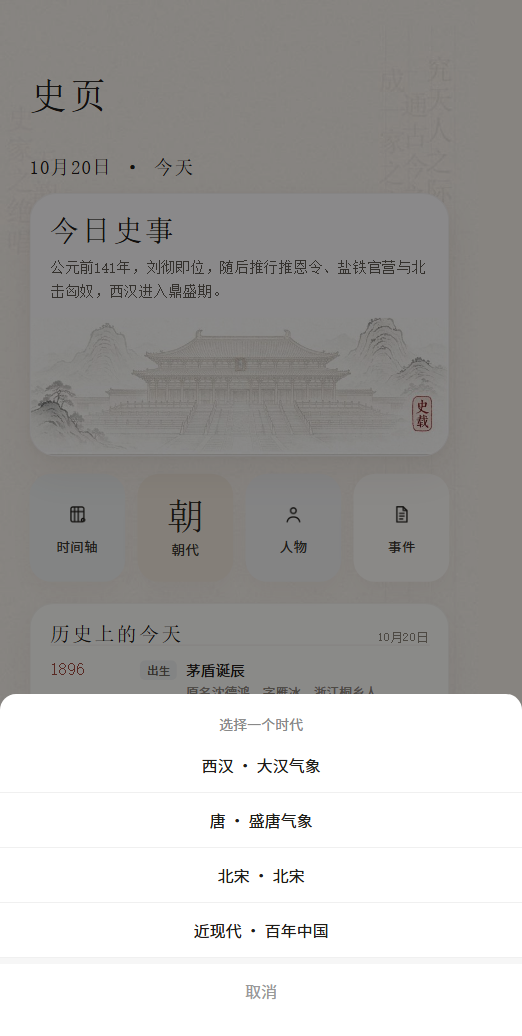
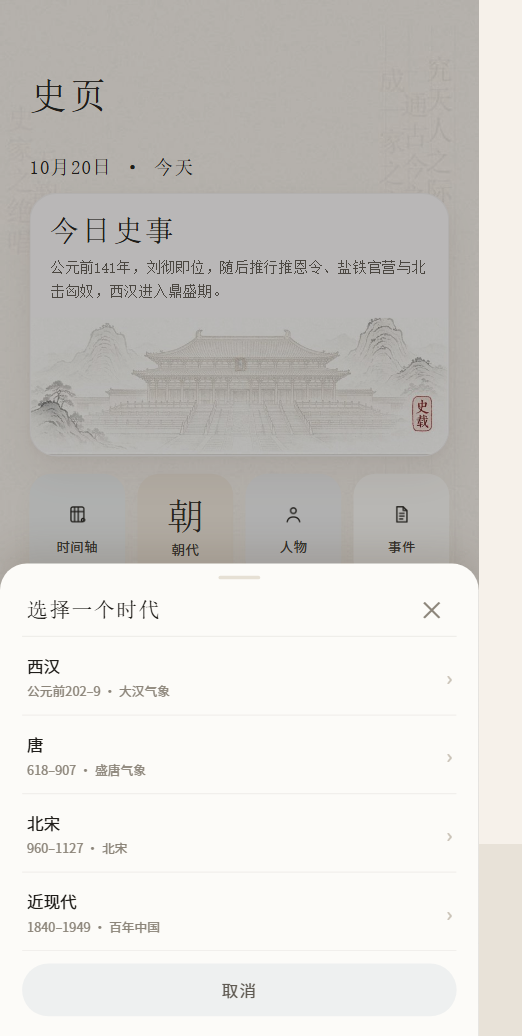
feat: 首页磁贴改自绘底部弹层(宣纸卡+动画+安全区), 移除时代带右侧竖条; selftest setData点路径保真(576全过)

diff --git a/ui/preview/_bundle.js b/ui/preview/_bundle.js
@@ -1373,7 +1373,8 @@ Page('project://pages/home/home.js', {
     modern: {},
     tih: [],
     tihTotal: 0,
-    tihDate: ''
+    tihDate: '',
+    sheet: { open: false, title: '', list: [] }
   },
 
   onShow() {
@@ -1445,50 +1446,52 @@ Page('project://pages/home/home.js', {
     }
 
     if (page === 'dynasty') {
-      this.showList(
+      this.openSheet(
         '选择一个时代',
-        history.periods.map((item) => `${item.name} · ${item.title}`),
-        (index) => {
-          const period = history.periods[index];
-          wx.navigateTo({ url: `/pages/period/period?id=${period.id}` });
-        }
+        history.periods.map((item) => ({ id: item.id, kind: 'period', title: item.name, sub: `${item.start < 0 ? '公元前' + (-item.start) : item.start}–${item.end} · ${item.title}` }))
       );
       return;
     }
 
     if (page === 'person') {
-      this.showList(
+      this.openSheet(
         '选择一位人物',
-        history.persons.map((item) => `${item.name} · ${item.roles}`),
-        (index) => {
-          const person = history.persons[index];
-          wx.navigateTo({ url: `/pages/person/person?id=${person.id}` });
-        }
+        history.persons.map((item) => ({ id: item.id, kind: 'person', title: item.name, sub: `${item.era} · ${item.roles}` }))
       );
       return;
     }
 
     if (page === 'event') {
       const items = history.events.slice(-6).reverse();
-      this.showList(
+      this.openSheet(
         '选择一件史事',
-        items.map((item) => `${item.yearText} · ${item.title}`),
-        (index) => {
-          const event = items[index];
-          wx.navigateTo({ url: `/pages/event/event?id=${event.id}` });
-        }
+        items.map((item) => ({ id: item.id, kind: 'event', title: item.title, sub: `${item.yearText} · ${item.era}` }))
       );
     }
   },
 
-  showList(title, itemList, onSelect) {
-    wx.showActionSheet({
-      alertText: title,
-      itemList,
-      success: (res) => {
-        onSelect(res.tapIndex);
-      }
-    });
+  openSheet(title, list) {
+    this.setData({ sheet: { open: true, title, list } });
+  },
+
+  closeSheet() {
+    this.setData({ 'sheet.open': false });
+  },
+
+  // 阻挡面板内点击冒泡到遮罩
+  noop() {},
+
+  onSheetItem(e) {
+    const item = this.data.sheet.list[e.currentTarget.dataset.index];
+    if (!item) return;
+    const url =
+      item.kind === 'person'
+        ? `/pages/person/person?id=${item.id}`
+        : item.kind === 'event'
+          ? `/pages/event/event?id=${item.id}`
+          : `/pages/period/period?id=${item.id}`;
+    this.setData({ 'sheet.open': false });
+    wx.navigateTo({ url });
   },
 
   showDetail(item) {
@@ -1542,8 +1545,8 @@ Page('project://pages/home/home.js', {
 });
 
 });
-__register('/pages/home/home.wxml', function (require, module, exports) { module.exports = "<view class=\"page\">\r\n  <image class=\"paper-bg\" src=\"/assets/paper-bg.jpg\" mode=\"aspectFill\"></image>\r\n  <view class=\"screen\">\r\n    <view class=\"topbar\">\r\n      <text class=\"brand\">史页</text>\r\n    </view>\r\n\r\n    <view class=\"date\">{{dateText}}</view>\r\n\r\n    <view class=\"hero\" bindtap=\"onHeroTap\">\r\n      <view class=\"hero-inner\">\r\n        <text class=\"hero-title\">{{hero.title}}</text>\r\n        <text class=\"hero-desc\">{{hero.desc}}</text>\r\n      </view>\r\n      <image class=\"hero-art\" src=\"/assets/palace.jpg\" mode=\"widthFix\"></image>\r\n    </view>\r\n\r\n    <view class=\"quick\">\r\n      <view class=\"quick-item t1\" data-page=\"timeline\" bindtap=\"goPage\">\r\n        <image class=\"quick-icon\" src=\"/assets/icons/timeline-tile.png\" mode=\"aspectFit\"></image>\r\n        <text class=\"quick-label\">时间轴</text>\r\n      </view>\r\n      <view class=\"quick-item t2\" data-page=\"dynasty\" bindtap=\"goPage\">\r\n        <text class=\"quick-char\">朝</text>\r\n        <text class=\"quick-label\">朝代</text>\r\n      </view>\r\n      <view class=\"quick-item t3\" data-page=\"person\" bindtap=\"goPage\">\r\n        <image class=\"quick-icon\" src=\"/assets/icons/person.png\" mode=\"aspectFit\"></image>\r\n        <text class=\"quick-label\">人物</text>\r\n      </view>\r\n      <view class=\"quick-item t4\" data-page=\"event\" bindtap=\"goPage\">\r\n        <image class=\"quick-icon\" src=\"/assets/icons/event.png\" mode=\"aspectFit\"></image>\r\n        <text class=\"quick-label\">事件</text>\r\n      </view>\r\n    </view>\r\n\r\n    <view class=\"tih\" wx:if=\"{{tih.length}}\">\r\n      <view class=\"tih-head\">\r\n        <text class=\"tih-title\">历史上的今天</text>\r\n        <text class=\"tih-sub\">{{tihDate}}</text>\r\n      </view>\r\n      <view\r\n        class=\"tih-item\"\r\n        wx:for=\"{{tih}}\"\r\n        wx:key=\"index\"\r\n        data-index=\"{{index}}\"\r\n        bindtap=\"onTihTap\"\r\n      >\r\n        <text class=\"tih-year\">{{item.yearText}}</text>\r\n        <text class=\"tih-tag {{item.type === '出生' ? 'tag-b' : item.type === '逝世' ? 'tag-d' : 'tag-e'}}\">{{item.type}}</text>\r\n        <view class=\"tih-main\">\r\n          <text class=\"tih-name\">{{item.title}}</text>\r\n          <text class=\"tih-desc\" wx:if=\"{{item.desc}}\">{{item.desc}}</text>\r\n        </view>\r\n      </view>\r\n      <view class=\"tih-foot\" wx:if=\"{{tihTotal > tih.length}}\">共 {{tihTotal}} 条 · 点击条目看详情</view>\r\n    </view>\r\n\r\n    <view class=\"section-head\">\r\n      <text class=\"section-title\">沿着时间走</text>\r\n      <text class=\"section-link\" bindtap=\"goDiscover\">全部朝代 ›</text>\r\n    </view>\r\n\r\n    <view class=\"era-row\">\r\n      <view class=\"era-card\" bindtap=\"onEraTap\">\r\n        <image class=\"era-bg\" src=\"/assets/tang-bg.jpg\" mode=\"aspectFill\"></image>\r\n        <view class=\"era-shade\"></view>\r\n        <text class=\"era-title\">{{era.title}}</text>\r\n        <text class=\"era-desc\">{{era.desc}}</text>\r\n      </view>\r\n    </view>\r\n\r\n    <view class=\"modern-card\" bindtap=\"onModernTap\">\r\n      <view class=\"modern-copy\">\r\n        <text class=\"modern-kicker\">{{modern.kicker}}</text>\r\n        <text class=\"modern-title\">{{modern.shortTitle}}</text>\r\n        <text class=\"modern-desc\">{{modern.desc}}</text>\r\n      </view>\r\n      <view class=\"modern-years\">\r\n        <text>1840</text>\r\n        <view class=\"modern-dash\"></view>\r\n        <text>1949</text>\r\n      </view>\r\n    </view>\r\n  </view>\r\n</view>\r\n"; });
-__register('/pages/home/home.wxss', function (require, module, exports) { module.exports = ".page {\r\n  position: relative;\r\n  min-height: 100vh;\r\n  overflow: hidden;\r\n  background: #F6F1EA;\r\n}\r\n\r\n.paper-bg {\r\n  position: fixed;\r\n  left: 0;\r\n  top: 0;\r\n  z-index: 0;\r\n  width: 100%;\r\n  height: 100%;\r\n  opacity: 0.96;\r\n}\r\n\r\n.screen {\r\n  position: relative;\r\n  z-index: 2;\r\n  padding: 0 46rpx 160rpx;\r\n}\r\n\r\n.topbar {\r\n  margin-top: 88rpx;\r\n  height: 124rpx;\r\n  display: flex;\r\n  align-items: center;\r\n  justify-content: space-between;\r\n}\r\n\r\n.brand {\r\n  font-family: \"Songti SC\", \"STSong\", \"SimSun\", serif;\r\n  font-size: 58rpx;\r\n  font-weight: 400;\r\n  letter-spacing: 0.10em;\r\n  line-height: 1;\r\n  color: #1F1D19;\r\n}\r\n\r\n.date {\r\n  margin-top: 34rpx;\r\n  font-family: \"Songti SC\", \"STSong\", \"SimSun\", serif;\r\n  font-size: 30rpx;\r\n  letter-spacing: 0.04em;\r\n  color: #1F1D19;\r\n}\r\n\r\n.hero {\r\n  position: relative;\r\n  height: 412rpx;\r\n  margin-top: 24rpx;\r\n  border-radius: 42rpx;\r\n  background: #FCFAFB;\r\n  border: 1rpx solid rgba(80, 65, 48, 0.05);\r\n  box-shadow: 0 28rpx 58rpx rgba(90, 70, 50, 0.08), 0 4rpx 12rpx rgba(90, 70, 50, 0.03);\r\n  overflow: hidden;\r\n}\r\n\r\n.hero-inner {\r\n  position: relative;\r\n  z-index: 3;\r\n  padding: 30rpx 30rpx 0;\r\n}\r\n\r\n.hero-title {\r\n  display: block;\r\n  font-family: \"Songti SC\", \"STSong\", \"SimSun\", serif;\r\n  font-size: 46rpx;\r\n  font-weight: 400;\r\n  letter-spacing: 0.08em;\r\n  line-height: 1.1;\r\n  color: #1F1D19;\r\n}\r\n\r\n.hero-desc {\r\n  display: block;\r\n  max-width: 600rpx;\r\n  margin-top: 14rpx;\r\n  font-family: \"Songti SC\", \"STSong\", \"SimSun\", serif;\r\n  font-size: 24rpx;\r\n  line-height: 1.65;\r\n  color: #5F5A52;\r\n}\r\n\r\n.hero-art {\r\n  position: absolute;\r\n  left: 0;\r\n  bottom: 0;\r\n  z-index: 1;\r\n  width: 100%;\r\n  height: auto;\r\n  display: block;\r\n}\r\n\r\n.quick {\r\n  display: flex;\r\n  margin-top: 28rpx;\r\n}\r\n\r\n.quick-item {\r\n  flex: 1;\r\n  height: 168rpx;\r\n  margin-right: 20rpx;\r\n  border-radius: 34rpx;\r\n  display: flex;\r\n  flex-direction: column;\r\n  align-items: center;\r\n  justify-content: center;\r\n  box-shadow: 0 16rpx 34rpx rgba(90, 70, 50, 0.045);\r\n}\r\n\r\n.quick-item:last-child {\r\n  margin-right: 0;\r\n}\r\n\r\n.quick-item.t1 {\r\n  background: #EEF0F0;\r\n}\r\n\r\n.quick-item.t2 {\r\n  background: #F1E8DD;\r\n}\r\n\r\n.quick-item.t3 {\r\n  background: #F0F0F1;\r\n}\r\n\r\n.quick-item.t4 {\r\n  background: #FBF9F6;\r\n}\r\n\r\n.quick-icon {\r\n  width: 46rpx;\r\n  height: 46rpx;\r\n  display: block;\r\n}\r\n\r\n.quick-char {\r\n  height: 54rpx;\r\n  font-family: \"Songti SC\", \"STSong\", \"SimSun\", serif;\r\n  font-size: 58rpx;\r\n  line-height: 1;\r\n  color: #2A2722;\r\n}\r\n\r\n.quick-label {\r\n  margin-top: 12rpx;\r\n  font-size: 21rpx;\r\n  letter-spacing: 0.04em;\r\n  color: #3B3731;\r\n}\r\n\r\n/* 「历史上的今天」——60s API 实时板块 */\r\n.tih {\r\n  margin-top: 34rpx;\r\n  padding: 28rpx 30rpx 6rpx;\r\n  border-radius: 38rpx;\r\n  background: #FCFBF8;\r\n  border: 1rpx solid rgba(80, 65, 48, 0.05);\r\n  box-shadow: 0 20rpx 46rpx rgba(90, 70, 50, 0.06);\r\n}\r\n\r\n.tih-head {\r\n  display: flex;\r\n  align-items: baseline;\r\n  justify-content: space-between;\r\n}\r\n\r\n.tih-title {\r\n  font-family: \"Songti SC\", \"STSong\", \"SimSun\", serif;\r\n  font-size: 32rpx;\r\n  letter-spacing: 0.07em;\r\n  color: #1F1D19;\r\n}\r\n\r\n.tih-sub {\r\n  font-family: \"Songti SC\", \"STSong\", \"SimSun\", serif;\r\n  font-size: 19rpx;\r\n  letter-spacing: 0.04em;\r\n  color: #8C857A;\r\n}\r\n\r\n.tih-item {\r\n  display: flex;\r\n  align-items: flex-start;\r\n  gap: 14rpx;\r\n  padding: 22rpx 0 20rpx;\r\n  border-top: 1rpx solid rgba(31, 29, 25, 0.05);\r\n}\r\n\r\n.tih-year {\r\n  flex: none;\r\n  width: 128rpx;\r\n  font-family: \"Songti SC\", \"STSong\", \"SimSun\", serif;\r\n  font-size: 26rpx;\r\n  line-height: 34rpx;\r\n  color: #A34A3E;\r\n}\r\n\r\n.tih-tag {\r\n  flex: none;\r\n  height: 32rpx;\r\n  padding: 0 10rpx;\r\n  margin-top: 1rpx;\r\n  border-radius: 8rpx;\r\n  font-size: 18rpx;\r\n  line-height: 32rpx;\r\n  letter-spacing: 0.04em;\r\n}\r\n\r\n.tag-e { background: #F1E8DD; color: #5F5A52; }\r\n.tag-b { background: #EEF0F0; color: #5F5A52; }\r\n.tag-d { background: #F0F0F1; color: #8C857A; }\r\n\r\n.tih-main {\r\n  flex: 1;\r\n  min-width: 0;\r\n}\r\n\r\n.tih-name {\r\n  display: block;\r\n  font-size: 23rpx;\r\n  line-height: 34rpx;\r\n  color: #1F1D19;\r\n  overflow: hidden;\r\n  text-overflow: ellipsis;\r\n  white-space: nowrap;\r\n}\r\n\r\n.tih-desc {\r\n  display: block;\r\n  margin-top: 4rpx;\r\n  font-size: 20rpx;\r\n  line-height: 28rpx;\r\n  color: #8C857A;\r\n  overflow: hidden;\r\n  text-overflow: ellipsis;\r\n  white-space: nowrap;\r\n}\r\n\r\n.tih-foot {\r\n  padding: 18rpx 0 20rpx;\r\n  border-top: 1rpx solid rgba(31, 29, 25, 0.05);\r\n  font-size: 19rpx;\r\n  letter-spacing: 0.04em;\r\n  color: #8C857A;\r\n}\r\n\r\n.section-head {\r\n  margin-top: 38rpx;\r\n  display: flex;\r\n  align-items: baseline;\r\n  justify-content: space-between;\r\n}\r\n\r\n.section-title {\r\n  font-family: \"Songti SC\", \"STSong\", \"SimSun\", serif;\r\n  font-size: 34rpx;\r\n  letter-spacing: 0.07em;\r\n  color: #1F1D19;\r\n}\r\n\r\n.section-link {\r\n  font-size: 19rpx;\r\n  letter-spacing: 0.04em;\r\n  color: #8C857A;\r\n}\r\n\r\n.era-row {\r\n  display: flex;\r\n  align-items: stretch;\r\n  gap: 16rpx;\r\n  margin-top: 20rpx;\r\n}\r\n\r\n.era-card {\r\n  position: relative;\r\n  flex: 1;\r\n  height: 216rpx;\r\n  padding: 26rpx 30rpx;\r\n  border-radius: 38rpx;\r\n  background: #F3EFE6;\r\n  overflow: hidden;\r\n  box-shadow: 0 20rpx 46rpx rgba(90, 70, 50, 0.06);\r\n}\r\n\r\n.era-title {\r\n  position: relative;\r\n  z-index: 2;\r\n  display: block;\r\n  font-family: \"Songti SC\", \"STSong\", \"SimSun\", serif;\r\n  font-size: 34rpx;\r\n  letter-spacing: 0.08em;\r\n  color: #1F1D19;\r\n}\r\n\r\n.era-desc {\r\n  position: relative;\r\n  z-index: 2;\r\n  display: block;\r\n  max-width: 350rpx;\r\n  margin-top: 12rpx;\r\n  font-family: \"Songti SC\", \"STSong\", \"SimSun\", serif;\r\n  font-size: 19rpx;\r\n  line-height: 1.55;\r\n  color: #5F5A52;\r\n}\r\n\r\n.era-bg {\r\n  position: absolute;\r\n  left: 0;\r\n  top: 0;\r\n  z-index: 0;\r\n  width: 100%;\r\n  height: 100%;\r\n  display: block;\r\n}\r\n\r\n.era-shade {\r\n  position: absolute;\r\n  left: 0;\r\n  top: 0;\r\n  bottom: 0;\r\n  z-index: 1;\r\n  width: 52%;\r\n  background: linear-gradient(90deg, rgba(250, 247, 241, 0.42), rgba(250, 247, 241, 0));\r\n  pointer-events: none;\r\n}\r\n\r\n.modern-card {\r\n  position: relative;\r\n  height: 200rpx;\r\n  margin-top: 16rpx;\r\n  padding: 28rpx 30rpx;\r\n  border-radius: 38rpx;\r\n  background: #FCFBF8;\r\n  box-shadow: 0 20rpx 46rpx rgba(90, 70, 50, 0.05);\r\n  display: flex;\r\n  align-items: center;\r\n  justify-content: space-between;\r\n  overflow: hidden;\r\n}\r\n\r\n.modern-copy {\r\n  position: relative;\r\n  z-index: 2;\r\n  flex: 1;\r\n  min-width: 0;\r\n  padding-right: 150rpx;\r\n}\r\n\r\n.modern-kicker {\r\n  display: block;\r\n  font-size: 15rpx;\r\n  letter-spacing: 0.12em;\r\n  color: #7E9A9A;\r\n}\r\n\r\n.modern-title {\r\n  display: block;\r\n  margin-top: 8rpx;\r\n  font-family: \"Songti SC\", \"STSong\", \"SimSun\", serif;\r\n  font-size: 34rpx;\r\n  letter-spacing: 0.05em;\r\n  color: #1F1D19;\r\n}\r\n\r\n.modern-desc {\r\n  display: block;\r\n  max-width: 420rpx;\r\n  margin-top: 9rpx;\r\n  font-size: 19rpx;\r\n  line-height: 1.55;\r\n  color: #5F5A52;\r\n}\r\n\r\n.modern-years {\r\n  position: absolute;\r\n  right: 28rpx;\r\n  bottom: 24rpx;\r\n  z-index: 2;\r\n  display: flex;\r\n  flex-direction: column;\r\n  align-items: flex-end;\r\n  font-family: \"Songti SC\", \"STSong\", \"SimSun\", serif;\r\n  font-size: 26rpx;\r\n  line-height: 1.1;\r\n  letter-spacing: 0.03em;\r\n  color: #A9BCC4;\r\n}\r\n\r\n.modern-dash {\r\n  width: 44rpx;\r\n  height: 1rpx;\r\n  margin: 8rpx 0;\r\n  background: rgba(126, 154, 154, 0.55);\r\n}\r\n"; });
+__register('/pages/home/home.wxml', function (require, module, exports) { module.exports = "<view class=\"page\">\r\n  <image class=\"paper-bg\" src=\"/assets/paper-bg.jpg\" mode=\"aspectFill\"></image>\r\n  <view class=\"screen\">\r\n    <view class=\"topbar\">\r\n      <text class=\"brand\">史页</text>\r\n    </view>\r\n\r\n    <view class=\"date\">{{dateText}}</view>\r\n\r\n    <view class=\"hero\" bindtap=\"onHeroTap\">\r\n      <view class=\"hero-inner\">\r\n        <text class=\"hero-title\">{{hero.title}}</text>\r\n        <text class=\"hero-desc\">{{hero.desc}}</text>\r\n      </view>\r\n      <image class=\"hero-art\" src=\"/assets/palace.jpg\" mode=\"widthFix\"></image>\r\n    </view>\r\n\r\n    <view class=\"quick\">\r\n      <view class=\"quick-item t1\" data-page=\"timeline\" bindtap=\"goPage\">\r\n        <image class=\"quick-icon\" src=\"/assets/icons/timeline-tile.png\" mode=\"aspectFit\"></image>\r\n        <text class=\"quick-label\">时间轴</text>\r\n      </view>\r\n      <view class=\"quick-item t2\" data-page=\"dynasty\" bindtap=\"goPage\">\r\n        <text class=\"quick-char\">朝</text>\r\n        <text class=\"quick-label\">朝代</text>\r\n      </view>\r\n      <view class=\"quick-item t3\" data-page=\"person\" bindtap=\"goPage\">\r\n        <image class=\"quick-icon\" src=\"/assets/icons/person.png\" mode=\"aspectFit\"></image>\r\n        <text class=\"quick-label\">人物</text>\r\n      </view>\r\n      <view class=\"quick-item t4\" data-page=\"event\" bindtap=\"goPage\">\r\n        <image class=\"quick-icon\" src=\"/assets/icons/event.png\" mode=\"aspectFit\"></image>\r\n        <text class=\"quick-label\">事件</text>\r\n      </view>\r\n    </view>\r\n\r\n    <view class=\"tih\" wx:if=\"{{tih.length}}\">\r\n      <view class=\"tih-head\">\r\n        <text class=\"tih-title\">历史上的今天</text>\r\n        <text class=\"tih-sub\">{{tihDate}}</text>\r\n      </view>\r\n      <view\r\n        class=\"tih-item\"\r\n        wx:for=\"{{tih}}\"\r\n        wx:key=\"index\"\r\n        data-index=\"{{index}}\"\r\n        bindtap=\"onTihTap\"\r\n      >\r\n        <text class=\"tih-year\">{{item.yearText}}</text>\r\n        <text class=\"tih-tag {{item.type === '出生' ? 'tag-b' : item.type === '逝世' ? 'tag-d' : 'tag-e'}}\">{{item.type}}</text>\r\n        <view class=\"tih-main\">\r\n          <text class=\"tih-name\">{{item.title}}</text>\r\n          <text class=\"tih-desc\" wx:if=\"{{item.desc}}\">{{item.desc}}</text>\r\n        </view>\r\n      </view>\r\n      <view class=\"tih-foot\" wx:if=\"{{tihTotal > tih.length}}\">共 {{tihTotal}} 条 · 点击条目看详情</view>\r\n    </view>\r\n\r\n    <view class=\"section-head\">\r\n      <text class=\"section-title\">沿着时间走</text>\r\n      <text class=\"section-link\" bindtap=\"goDiscover\">全部朝代 ›</text>\r\n    </view>\r\n\r\n    <view class=\"era-row\">\r\n      <view class=\"era-card\" bindtap=\"onEraTap\">\r\n        <image class=\"era-bg\" src=\"/assets/tang-bg.jpg\" mode=\"aspectFill\"></image>\r\n        <view class=\"era-shade\"></view>\r\n        <text class=\"era-title\">{{era.title}}</text>\r\n        <text class=\"era-desc\">{{era.desc}}</text>\r\n      </view>\r\n    </view>\r\n\r\n    <view class=\"modern-card\" bindtap=\"onModernTap\">\r\n      <view class=\"modern-copy\">\r\n        <text class=\"modern-kicker\">{{modern.kicker}}</text>\r\n        <text class=\"modern-title\">{{modern.shortTitle}}</text>\r\n        <text class=\"modern-desc\">{{modern.desc}}</text>\r\n      </view>\r\n      <view class=\"modern-years\">\r\n        <text>1840</text>\r\n        <view class=\"modern-dash\"></view>\r\n        <text>1949</text>\r\n      </view>\r\n    </view>\r\n  </view>\r\n\r\n  <view class=\"sheet-layer\" wx:if=\"{{sheet.open}}\">\r\n    <view class=\"sheet-mask\" bindtap=\"closeSheet\"></view>\r\n    <view class=\"sheet-panel\" catchtap=\"noop\">\r\n      <view class=\"sheet-grip\"></view>\r\n      <view class=\"sheet-head\">\r\n        <text class=\"sheet-title\">{{sheet.title}}</text>\r\n        <text class=\"sheet-close\" bindtap=\"closeSheet\">×</text>\r\n      </view>\r\n      <view class=\"sheet-list\">\r\n        <view class=\"sheet-row\" wx:for=\"{{sheet.list}}\" wx:key=\"id\" data-index=\"{{index}}\" bindtap=\"onSheetItem\">\r\n          <view class=\"sheet-main\">\r\n            <text class=\"sheet-row-title\">{{item.title}}</text>\r\n            <text class=\"sheet-row-sub\">{{item.sub}}</text>\r\n          </view>\r\n          <text class=\"sheet-row-arrow\">›</text>\r\n        </view>\r\n      </view>\r\n      <view class=\"sheet-cancel\" bindtap=\"closeSheet\">取消</view>\r\n    </view>\r\n  </view>\r\n</view>\r\n"; });
+__register('/pages/home/home.wxss', function (require, module, exports) { module.exports = ".page {\r\n  position: relative;\r\n  min-height: 100vh;\r\n  overflow: hidden;\r\n  background: #F6F1EA;\r\n}\r\n\r\n.paper-bg {\r\n  position: fixed;\r\n  left: 0;\r\n  top: 0;\r\n  z-index: 0;\r\n  width: 100%;\r\n  height: 100%;\r\n  opacity: 0.96;\r\n}\r\n\r\n.screen {\r\n  position: relative;\r\n  z-index: 2;\r\n  padding: 0 46rpx 160rpx;\r\n}\r\n\r\n.topbar {\r\n  margin-top: 88rpx;\r\n  height: 124rpx;\r\n  display: flex;\r\n  align-items: center;\r\n  justify-content: space-between;\r\n}\r\n\r\n.brand {\r\n  font-family: \"Songti SC\", \"STSong\", \"SimSun\", serif;\r\n  font-size: 58rpx;\r\n  font-weight: 400;\r\n  letter-spacing: 0.10em;\r\n  line-height: 1;\r\n  color: #1F1D19;\r\n}\r\n\r\n.date {\r\n  margin-top: 34rpx;\r\n  font-family: \"Songti SC\", \"STSong\", \"SimSun\", serif;\r\n  font-size: 30rpx;\r\n  letter-spacing: 0.04em;\r\n  color: #1F1D19;\r\n}\r\n\r\n.hero {\r\n  position: relative;\r\n  height: 412rpx;\r\n  margin-top: 24rpx;\r\n  border-radius: 42rpx;\r\n  background: #FCFAFB;\r\n  border: 1rpx solid rgba(80, 65, 48, 0.05);\r\n  box-shadow: 0 28rpx 58rpx rgba(90, 70, 50, 0.08), 0 4rpx 12rpx rgba(90, 70, 50, 0.03);\r\n  overflow: hidden;\r\n}\r\n\r\n.hero-inner {\r\n  position: relative;\r\n  z-index: 3;\r\n  padding: 30rpx 30rpx 0;\r\n}\r\n\r\n.hero-title {\r\n  display: block;\r\n  font-family: \"Songti SC\", \"STSong\", \"SimSun\", serif;\r\n  font-size: 46rpx;\r\n  font-weight: 400;\r\n  letter-spacing: 0.08em;\r\n  line-height: 1.1;\r\n  color: #1F1D19;\r\n}\r\n\r\n.hero-desc {\r\n  display: block;\r\n  max-width: 600rpx;\r\n  margin-top: 14rpx;\r\n  font-family: \"Songti SC\", \"STSong\", \"SimSun\", serif;\r\n  font-size: 24rpx;\r\n  line-height: 1.65;\r\n  color: #5F5A52;\r\n}\r\n\r\n.hero-art {\r\n  position: absolute;\r\n  left: 0;\r\n  bottom: 0;\r\n  z-index: 1;\r\n  width: 100%;\r\n  height: auto;\r\n  display: block;\r\n}\r\n\r\n.quick {\r\n  display: flex;\r\n  margin-top: 28rpx;\r\n}\r\n\r\n.quick-item {\r\n  flex: 1;\r\n  height: 168rpx;\r\n  margin-right: 20rpx;\r\n  border-radius: 34rpx;\r\n  display: flex;\r\n  flex-direction: column;\r\n  align-items: center;\r\n  justify-content: center;\r\n  box-shadow: 0 16rpx 34rpx rgba(90, 70, 50, 0.045);\r\n}\r\n\r\n.quick-item:last-child {\r\n  margin-right: 0;\r\n}\r\n\r\n.quick-item.t1 {\r\n  background: #EEF0F0;\r\n}\r\n\r\n.quick-item.t2 {\r\n  background: #F1E8DD;\r\n}\r\n\r\n.quick-item.t3 {\r\n  background: #F0F0F1;\r\n}\r\n\r\n.quick-item.t4 {\r\n  background: #FBF9F6;\r\n}\r\n\r\n.quick-icon {\r\n  width: 46rpx;\r\n  height: 46rpx;\r\n  display: block;\r\n}\r\n\r\n.quick-char {\r\n  height: 54rpx;\r\n  font-family: \"Songti SC\", \"STSong\", \"SimSun\", serif;\r\n  font-size: 58rpx;\r\n  line-height: 1;\r\n  color: #2A2722;\r\n}\r\n\r\n.quick-label {\r\n  margin-top: 12rpx;\r\n  font-size: 21rpx;\r\n  letter-spacing: 0.04em;\r\n  color: #3B3731;\r\n}\r\n\r\n/* 「历史上的今天」——60s API 实时板块 */\r\n.tih {\r\n  margin-top: 34rpx;\r\n  padding: 28rpx 30rpx 6rpx;\r\n  border-radius: 38rpx;\r\n  background: #FCFBF8;\r\n  border: 1rpx solid rgba(80, 65, 48, 0.05);\r\n  box-shadow: 0 20rpx 46rpx rgba(90, 70, 50, 0.06);\r\n}\r\n\r\n.tih-head {\r\n  display: flex;\r\n  align-items: baseline;\r\n  justify-content: space-between;\r\n}\r\n\r\n.tih-title {\r\n  font-family: \"Songti SC\", \"STSong\", \"SimSun\", serif;\r\n  font-size: 32rpx;\r\n  letter-spacing: 0.07em;\r\n  color: #1F1D19;\r\n}\r\n\r\n.tih-sub {\r\n  font-family: \"Songti SC\", \"STSong\", \"SimSun\", serif;\r\n  font-size: 19rpx;\r\n  letter-spacing: 0.04em;\r\n  color: #8C857A;\r\n}\r\n\r\n.tih-item {\r\n  display: flex;\r\n  align-items: flex-start;\r\n  gap: 14rpx;\r\n  padding: 22rpx 0 20rpx;\r\n  border-top: 1rpx solid rgba(31, 29, 25, 0.05);\r\n}\r\n\r\n.tih-year {\r\n  flex: none;\r\n  width: 128rpx;\r\n  font-family: \"Songti SC\", \"STSong\", \"SimSun\", serif;\r\n  font-size: 26rpx;\r\n  line-height: 34rpx;\r\n  color: #A34A3E;\r\n}\r\n\r\n.tih-tag {\r\n  flex: none;\r\n  height: 32rpx;\r\n  padding: 0 10rpx;\r\n  margin-top: 1rpx;\r\n  border-radius: 8rpx;\r\n  font-size: 18rpx;\r\n  line-height: 32rpx;\r\n  letter-spacing: 0.04em;\r\n}\r\n\r\n.tag-e { background: #F1E8DD; color: #5F5A52; }\r\n.tag-b { background: #EEF0F0; color: #5F5A52; }\r\n.tag-d { background: #F0F0F1; color: #8C857A; }\r\n\r\n.tih-main {\r\n  flex: 1;\r\n  min-width: 0;\r\n}\r\n\r\n.tih-name {\r\n  display: block;\r\n  font-size: 23rpx;\r\n  line-height: 34rpx;\r\n  color: #1F1D19;\r\n  overflow: hidden;\r\n  text-overflow: ellipsis;\r\n  white-space: nowrap;\r\n}\r\n\r\n.tih-desc {\r\n  display: block;\r\n  margin-top: 4rpx;\r\n  font-size: 20rpx;\r\n  line-height: 28rpx;\r\n  color: #8C857A;\r\n  overflow: hidden;\r\n  text-overflow: ellipsis;\r\n  white-space: nowrap;\r\n}\r\n\r\n.tih-foot {\r\n  padding: 18rpx 0 20rpx;\r\n  border-top: 1rpx solid rgba(31, 29, 25, 0.05);\r\n  font-size: 19rpx;\r\n  letter-spacing: 0.04em;\r\n  color: #8C857A;\r\n}\r\n\r\n.section-head {\r\n  margin-top: 38rpx;\r\n  display: flex;\r\n  align-items: baseline;\r\n  justify-content: space-between;\r\n}\r\n\r\n.section-title {\r\n  font-family: \"Songti SC\", \"STSong\", \"SimSun\", serif;\r\n  font-size: 34rpx;\r\n  letter-spacing: 0.07em;\r\n  color: #1F1D19;\r\n}\r\n\r\n.section-link {\r\n  font-size: 19rpx;\r\n  letter-spacing: 0.04em;\r\n  color: #8C857A;\r\n}\r\n\r\n.era-row {\r\n  display: flex;\r\n  align-items: stretch;\r\n  gap: 16rpx;\r\n  margin-top: 20rpx;\r\n}\r\n\r\n.era-card {\r\n  position: relative;\r\n  flex: 1;\r\n  height: 216rpx;\r\n  padding: 26rpx 30rpx;\r\n  border-radius: 38rpx;\r\n  background: #F3EFE6;\r\n  overflow: hidden;\r\n  box-shadow: 0 20rpx 46rpx rgba(90, 70, 50, 0.06);\r\n}\r\n\r\n.era-title {\r\n  position: relative;\r\n  z-index: 2;\r\n  display: block;\r\n  font-family: \"Songti SC\", \"STSong\", \"SimSun\", serif;\r\n  font-size: 34rpx;\r\n  letter-spacing: 0.08em;\r\n  color: #1F1D19;\r\n}\r\n\r\n.era-desc {\r\n  position: relative;\r\n  z-index: 2;\r\n  display: block;\r\n  max-width: 350rpx;\r\n  margin-top: 12rpx;\r\n  font-family: \"Songti SC\", \"STSong\", \"SimSun\", serif;\r\n  font-size: 19rpx;\r\n  line-height: 1.55;\r\n  color: #5F5A52;\r\n}\r\n\r\n.era-bg {\r\n  position: absolute;\r\n  left: 0;\r\n  top: 0;\r\n  z-index: 0;\r\n  width: 100%;\r\n  height: 100%;\r\n  display: block;\r\n}\r\n\r\n.era-shade {\r\n  position: absolute;\r\n  left: 0;\r\n  top: 0;\r\n  bottom: 0;\r\n  z-index: 1;\r\n  width: 52%;\r\n  background: linear-gradient(90deg, rgba(250, 247, 241, 0.42), rgba(250, 247, 241, 0));\r\n  pointer-events: none;\r\n}\r\n\r\n.modern-card {\r\n  position: relative;\r\n  height: 200rpx;\r\n  margin-top: 16rpx;\r\n  padding: 28rpx 30rpx;\r\n  border-radius: 38rpx;\r\n  background: #FCFBF8;\r\n  box-shadow: 0 20rpx 46rpx rgba(90, 70, 50, 0.05);\r\n  display: flex;\r\n  align-items: center;\r\n  justify-content: space-between;\r\n  overflow: hidden;\r\n}\r\n\r\n.modern-copy {\r\n  position: relative;\r\n  z-index: 2;\r\n  flex: 1;\r\n  min-width: 0;\r\n  padding-right: 150rpx;\r\n}\r\n\r\n.modern-kicker {\r\n  display: block;\r\n  font-size: 15rpx;\r\n  letter-spacing: 0.12em;\r\n  color: #7E9A9A;\r\n}\r\n\r\n.modern-title {\r\n  display: block;\r\n  margin-top: 8rpx;\r\n  font-family: \"Songti SC\", \"STSong\", \"SimSun\", serif;\r\n  font-size: 34rpx;\r\n  letter-spacing: 0.05em;\r\n  color: #1F1D19;\r\n}\r\n\r\n.modern-desc {\r\n  display: block;\r\n  max-width: 420rpx;\r\n  margin-top: 9rpx;\r\n  font-size: 19rpx;\r\n  line-height: 1.55;\r\n  color: #5F5A52;\r\n}\r\n\r\n.modern-years {\r\n  position: absolute;\r\n  right: 28rpx;\r\n  bottom: 24rpx;\r\n  z-index: 2;\r\n  display: flex;\r\n  flex-direction: column;\r\n  align-items: flex-end;\r\n  font-family: \"Songti SC\", \"STSong\", \"SimSun\", serif;\r\n  font-size: 26rpx;\r\n  line-height: 1.1;\r\n  letter-spacing: 0.03em;\r\n  color: #A9BCC4;\r\n}\r\n\r\n.modern-dash {\r\n  width: 44rpx;\r\n  height: 1rpx;\r\n  margin: 8rpx 0;\r\n  background: rgba(126, 154, 154, 0.55);\r\n}\r\n\r\n/* 磁贴选择弹层（自绘底部面板，替换原生 ActionSheet） */\r\n.sheet-layer {\r\n  position: fixed;\r\n  left: 0;\r\n  right: 0;\r\n  top: 0;\r\n  bottom: 0;\r\n  z-index: 120;\r\n}\r\n\r\n.sheet-mask {\r\n  position: absolute;\r\n  left: 0;\r\n  right: 0;\r\n  top: 0;\r\n  bottom: 0;\r\n  background: rgba(31, 29, 25, 0.3);\r\n  animation: sheetFade 0.18s ease both;\r\n}\r\n\r\n.sheet-panel {\r\n  position: absolute;\r\n  left: 0;\r\n  right: 0;\r\n  bottom: 0;\r\n  max-height: 62vh;\r\n  padding: 16rpx 34rpx calc(30rpx + env(safe-area-inset-bottom));\r\n  background: #FCFBF8;\r\n  border-radius: 42rpx 42rpx 0 0;\r\n  box-shadow: 0 -24rpx 52rpx rgba(90, 70, 50, 0.16);\r\n  animation: sheetUp 0.24s cubic-bezier(0.2, 0.8, 0.3, 1) both;\r\n}\r\n\r\n.sheet-grip {\r\n  width: 66rpx;\r\n  height: 6rpx;\r\n  margin: 4rpx auto 14rpx;\r\n  border-radius: 3rpx;\r\n  background: #E6E0D4;\r\n}\r\n\r\n.sheet-head {\r\n  display: flex;\r\n  align-items: center;\r\n  justify-content: space-between;\r\n  padding: 6rpx 8rpx 16rpx;\r\n  border-bottom: 1rpx solid rgba(31, 29, 25, 0.06);\r\n}\r\n\r\n.sheet-title {\r\n  font-family: \"Songti SC\", \"STSong\", \"SimSun\", serif;\r\n  font-size: 33rpx;\r\n  letter-spacing: 0.07em;\r\n  color: #1F1D19;\r\n}\r\n\r\n.sheet-close {\r\n  font-size: 40rpx;\r\n  line-height: 1;\r\n  padding: 6rpx 12rpx;\r\n  color: #8C857A;\r\n}\r\n\r\n.sheet-list {\r\n  max-height: 44vh;\r\n  overflow-y: auto;\r\n}\r\n\r\n.sheet-row {\r\n  display: flex;\r\n  align-items: center;\r\n  gap: 18rpx;\r\n  padding: 24rpx 8rpx;\r\n  border-bottom: 1rpx solid rgba(31, 29, 25, 0.05);\r\n}\r\n\r\n.sheet-main {\r\n  flex: 1;\r\n  min-width: 0;\r\n}\r\n\r\n.sheet-row-title {\r\n  display: block;\r\n  font-size: 26rpx;\r\n  color: #1F1D19;\r\n  overflow: hidden;\r\n  text-overflow: ellipsis;\r\n  white-space: nowrap;\r\n}\r\n\r\n.sheet-row-sub {\r\n  display: block;\r\n  margin-top: 6rpx;\r\n  font-size: 20rpx;\r\n  color: #8C857A;\r\n  overflow: hidden;\r\n  text-overflow: ellipsis;\r\n  white-space: nowrap;\r\n}\r\n\r\n.sheet-row-arrow {\r\n  font-size: 30rpx;\r\n  color: #C9C2B6;\r\n}\r\n\r\n.sheet-cancel {\r\n  margin-top: 18rpx;\r\n  height: 84rpx;\r\n  border-radius: 42rpx;\r\n  background: #EEF0F0;\r\n  font-size: 26rpx;\r\n  letter-spacing: 0.08em;\r\n  color: #5F5A52;\r\n  text-align: center;\r\n  line-height: 84rpx;\r\n}\r\n\r\n@keyframes sheetFade {\r\n  from { opacity: 0; }\r\n  to { opacity: 1; }\r\n}\r\n\r\n@keyframes sheetUp {\r\n  from { transform: translateY(42%); opacity: 0.4; }\r\n  to { transform: translateY(0); opacity: 1; }\r\n}\r\n"; });
 __register('/pages/timeline/timeline.js', function (require, module, exports) {
 const hd = require('../../utils/historyData.js');
 const store = require('../../utils/store.js');

diff --git a/miniprogram/pages/home/home.js b/miniprogram/pages/home/home.js
@@ -10,7 +10,8 @@ Page({
     modern: {},
     tih: [],
     tihTotal: 0,
-    tihDate: ''
+    tihDate: '',
+    sheet: { open: false, title: '', list: [] }
   },
 
   onShow() {
@@ -82,50 +83,52 @@ Page({
     }
 
     if (page === 'dynasty') {
-      this.showList(
+      this.openSheet(
         '选择一个时代',
-        history.periods.map((item) => `${item.name} · ${item.title}`),
-        (index) => {
-          const period = history.periods[index];
-          wx.navigateTo({ url: `/pages/period/period?id=${period.id}` });
-        }
+        history.periods.map((item) => ({ id: item.id, kind: 'period', title: item.name, sub: `${item.start < 0 ? '公元前' + (-item.start) : item.start}–${item.end} · ${item.title}` }))
       );
       return;
     }
 
     if (page === 'person') {
-      this.showList(
+      this.openSheet(
         '选择一位人物',
-        history.persons.map((item) => `${item.name} · ${item.roles}`),
-        (index) => {
-          const person = history.persons[index];
-          wx.navigateTo({ url: `/pages/person/person?id=${person.id}` });
-        }
+        history.persons.map((item) => ({ id: item.id, kind: 'person', title: item.name, sub: `${item.era} · ${item.roles}` }))
       );
       return;
     }
 
     if (page === 'event') {
       const items = history.events.slice(-6).reverse();
-      this.showList(
+      this.openSheet(
         '选择一件史事',
-        items.map((item) => `${item.yearText} · ${item.title}`),
-        (index) => {
-          const event = items[index];
-          wx.navigateTo({ url: `/pages/event/event?id=${event.id}` });
-        }
+        items.map((item) => ({ id: item.id, kind: 'event', title: item.title, sub: `${item.yearText} · ${item.era}` }))
       );
     }
   },
 
-  showList(title, itemList, onSelect) {
-    wx.showActionSheet({
-      alertText: title,
-      itemList,
-      success: (res) => {
-        onSelect(res.tapIndex);
-      }
-    });
+  openSheet(title, list) {
+    this.setData({ sheet: { open: true, title, list } });
+  },
+
+  closeSheet() {
+    this.setData({ 'sheet.open': false });
+  },
+
+  // 阻挡面板内点击冒泡到遮罩
+  noop() {},
+
+  onSheetItem(e) {
+    const item = this.data.sheet.list[e.currentTarget.dataset.index];
+    if (!item) return;
+    const url =
+      item.kind === 'person'
+        ? `/pages/person/person?id=${item.id}`
+        : item.kind === 'event'
+          ? `/pages/event/event?id=${item.id}`
+          : `/pages/period/period?id=${item.id}`;
+    this.setData({ 'sheet.open': false });
+    wx.navigateTo({ url });
   },
 
   showDetail(item) {

diff --git a/tools/selftest.js b/tools/selftest.js
@@ -156,11 +156,17 @@ global.wx = wx;
 
 function instantiate(cfg, name) {
   const page = Object.assign({ __name: name, data: JSON.parse(JSON.stringify(cfg.data || {})) }, cfg);
-  // setData：按整键替换，供断言读取（与 wx 顶層键覆盖行为一致）
+  // setData：顶层键整键替换 + 支持 'a.b.c' 点路径（与真机 setData 行为一致）
   Object.defineProperty(page, 'setData', {
     value(patch, cb) {
       Object.keys(patch).forEach((key) => {
-        page.data[key] = patch[key];
+        const path = key.split('.');
+        let node = page.data;
+        for (let i = 0; i < path.length - 1; i++) {
+          if (node[path[i]] === undefined || typeof node[path[i]] !== 'object') node[path[i]] = {};
+          node = node[path[i]];
+        }
+        node[path[path.length - 1]] = patch[key];
       });
       if (cb) cb();
     }
@@ -276,20 +282,27 @@ console.log('== 首页 ==');
   eq(last('switchTab').url, '/pages/discover/discover', '全部朝代 › 发现页（switchTab）');
 
   tap(p, 'goPage', { page: 'person' });
-  eq(pendingSheet && pendingSheet.itemList.length, 19, '人物磁贴：ActionSheet 十九位人物');
+  ok(p.data.sheet.open, '人物磁贴：打开自绘弹层');
+  eq(p.data.sheet.list.length, 19, '弹层列出十九位人物');
 
-  pickSheet(6);
+  tap(p, 'onSheetItem', { index: 6 });
   eq(last('navigateTo').url, '/pages/person/person?id=su-shi', '选择第 6 位 → 苏轼详情');
+  eq(p.data.sheet.open, false, '选择后弹层自动关闭');
 
   tap(p, 'goPage', { page: 'event' });
-  eq(pendingSheet && pendingSheet.itemList.length, 6, '事件磁贴：ActionSheet 六条史事');
-  pickSheet(0);
+  ok(p.data.sheet.open, '事件磁贴：打开自绘弹层');
+  eq(p.data.sheet.list.length, 6, '弹层列出六条史事');
+  tap(p, 'onSheetItem', { index: 0 });
   const evUrl = last('navigateTo').url;
   ok(/event\?id=yuanmingyuan-1860|event\?id=reform-1978/.test(evUrl), `事件磁贴选择命中真实事件 (${evUrl})`);
 
   tap(p, 'goPage', { page: 'dynasty' });
-  eq(pendingSheet && pendingSheet.itemList.length, 4, '朝代磁贴：四个时代');
-  pickSheet(0);
+  ok(p.data.sheet.open, '朝代磁贴：打开自绘弹层');
+  eq(p.data.sheet.list.length, 4, '弹层列出四个时代');
+  tap(p, 'closeSheet');
+  eq(p.data.sheet.open, false, '点遮罩/取消可关闭');
+  tap(p, 'goPage', { page: 'dynasty' });
+  tap(p, 'onSheetItem', { index: 0 });
   eq(last('navigateTo').url, '/pages/period/period?id=han', '选择时代 → 朝代详情页');
 
   tap(p, 'onHeroTap');

diff --git a/docs/DEVELOPMENT_LOG.md b/docs/DEVELOPMENT_LOG.md
@@ -296,6 +296,29 @@ miniprogram/data/history.js
 
 ---
 
+## 2026-10-20 · 第十四轮：交互（一）磁贴自绘弹层替代原生 ActionSheet + 时代带右侧竖条移除
+
+**改动**
+
+- **视觉（用户指图反馈）**：首页时代带右侧的 scroll-accent 半屏竖条（千里江山装饰列）整体移除，盛唐卡经 `era-row` flex 独占整行（`_`assets/scroll-accent.png 保留在 assets，未删文件）。
+- **交互（用户要求“不要自带弹框”）**：首页三个磁贴（朝代/人物/事件）的选择列表由 `wx.showActionSheet` 改为**自绘底部弹层**：
+  - `home.js`：`openSheet/closeSheet/noop/onSheetItem` 四件套；三种弹层内容仍全部实时取自 `hd.get()`（4 时代含起讫纪年 / 19 人物带时代与身份 / 精选 6 史事带纪年与朝代）；选中即关弹层并 `navigateTo` 真实条目。
+  - `home.wxml`：页面根级 `sheet-layer`（遮罩 + 面板 + 拖柄 + 标题行 + 滚动列表 + 取消胶囊）；面板 `catchtap=noop` 阻冒泡，点遮罩/×/取消均关闭。
+  - `home.wxss`：宣纸白卡圆角顶、淡墨分隔线、入场 `sheetUp` 动画、`env(safe-area-inset-bottom)` 安全区。
+- **selftest 保真**：mock `setData` 升级支持 `'a.b'` 点路径（与真机行为一致）；首页块断言改为弹层打开/条数/选择跳转/选择后关闭/点取消关闭。
+- 截图套件不变（`02-home-sheet-dynasty` 场景即拍到新弹层，视觉核对通过）。
+
+**校验**
+
+- `node tools/selftest.js` **PASS 576 / FAIL 0**；validate OK；strip_bom 0；bundle 重建。
+- 原生 `wx.showActionSheet` 全站已无调用（home.js 的 showList 移除）；harness 的 drawSheet 桩仍保留（无调用方，不影响）。
+
+**遗留**
+
+- 发现页/朝代页等列表均为页面内真实渲染，无原生弹层依赖；detail 页收藏 Toast 仍用 wx.showToast（原生提示，保留）。
+
+---
+
 ## 2026-10-20 · 第十三轮：内容扩充——明代 + 辽/西夏/金建国线（33 史事 / 19 人物）
 
 **新增史事（7 条，全部 ancient，插在 `yuanmingyuan-1860` 之前保住精选首条契约）**
